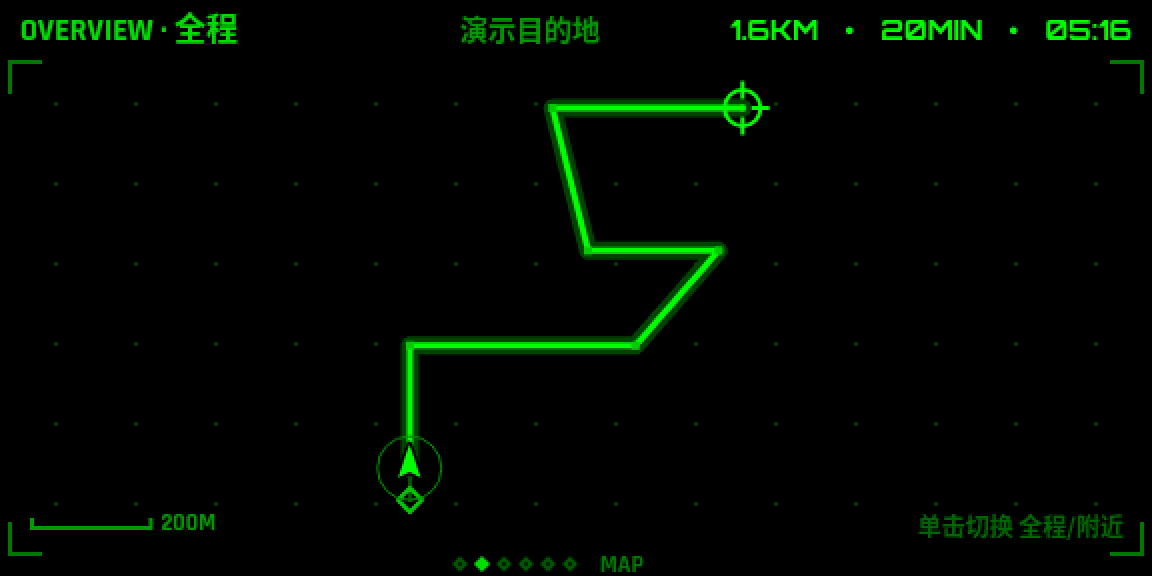
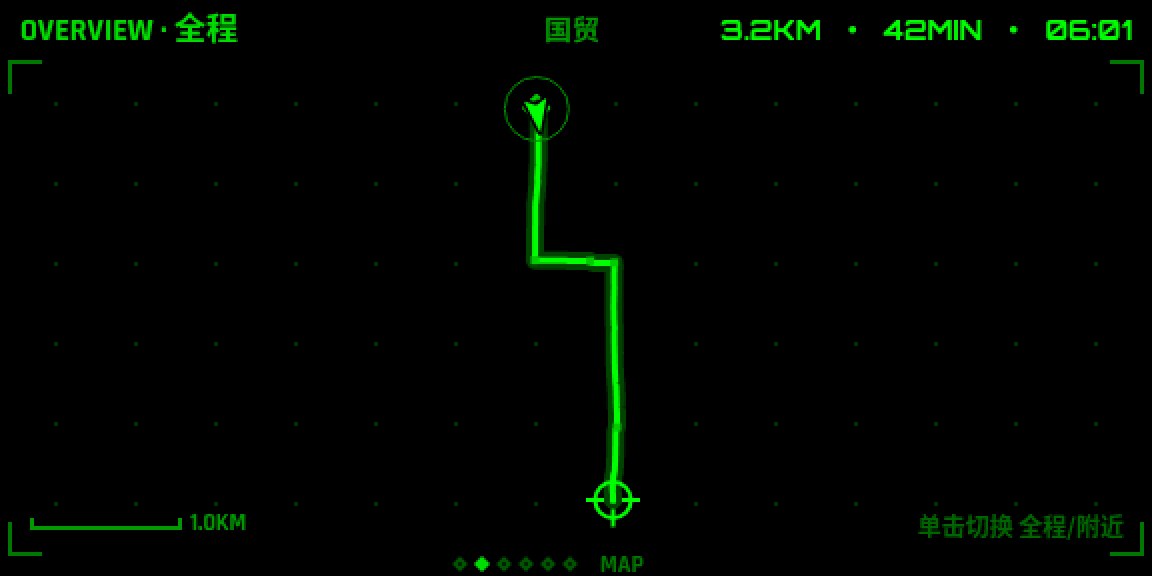
街道底图：开运算 + 去小连通块，去掉文字与图标描边噪点（真实静态图验证）；上架截图换成真实数据

diff --git a/src/hud/basemap.ts b/src/hud/basemap.ts
@@ -71,8 +71,10 @@ export class BasemapManager {
 
 /**
  * 高德静态图是浅色底、白色/黄色道路。这里提取「道路」像素：
- * 高亮且低饱和（普通路）或暖黄色（主干道）→ 映射为暗灰阶；
- * 其余（地块、文字、水系）为黑。若提取比例异常则回退到 Sobel 边缘线框。
+ * 高亮且低饱和（普通路）或暖黄色（主干道）→ 映射为暗灰阶；其余（地块、文字、水系）为黑。
+ * 文字标注和 POI 图标外圈也是白色描边，用 3×3 开运算去掉细描边，再去掉小于 60 像素的孤立块。
+ * （用真实静态图验证：17 级下道路 6–10px 宽，开运算后完整保留。）
+ * 若提取比例异常则回退到 Sobel 边缘线框。
  */
 function process(bmp: ImageBitmap): HTMLCanvasElement {
   const c = createCanvas(bmp.width, bmp.height)
@@ -80,33 +82,84 @@ function process(bmp: ImageBitmap): HTMLCanvasElement {
   ctx.drawImage(bmp, 0, 0)
   const img = ctx.getImageData(0, 0, c.width, c.height)
   const px = img.data
-  const n = c.width * c.height
-  const out = new Uint8ClampedArray(n)
-  let roadCount = 0
+  const w = c.width
+  const h = c.height
+  const n = w * h
+  const white = new Uint8Array(n)
+  const major = new Uint8Array(n)
   for (let i = 0; i < n; i++) {
     const r = px[i * 4]
     const g = px[i * 4 + 1]
     const b = px[i * 4 + 2]
     const max = Math.max(r, g, b)
     const min = Math.min(r, g, b)
-    const isWhite = min >= 250 && max - min < 8
-    const isMajor = r > 235 && g > 180 && b < 175 && r - b > 60
-    if (isMajor) {
-      out[i] = 7 * 17
-      roadCount++
-    } else if (isWhite) {
-      out[i] = 5 * 17
-      roadCount++
-    }
+    if (r > 235 && g > 180 && b < 175 && r - b > 60) major[i] = 1
+    else if (min >= 250 && max - min < 8) white[i] = 1
+  }
+  const roadsW = removeSmall(open3(white, w, h), w, h, 60)
+  const roadsM = open3(major, w, h)
+  const out = new Uint8ClampedArray(n)
+  let roadCount = 0
+  for (let i = 0; i < n; i++) {
+    if (roadsM[i]) { out[i] = 7 * 17; roadCount++ }
+    else if (roadsW[i]) { out[i] = 5 * 17; roadCount++ }
   }
   const ratio = roadCount / n
-  if (ratio < 0.02 || ratio > 0.6) sobel(px, out, c.width, c.height)
+  if (ratio < 0.02 || ratio > 0.6) sobel(px, out, w, h)
   for (let i = 0; i < n; i++) {
     px[i * 4] = px[i * 4 + 1] = px[i * 4 + 2] = out[i]
     px[i * 4 + 3] = 255
   }
   ctx.putImageData(img, 0, 0)
   return c
+}
+
+/** 3×3 开运算（先腐蚀后膨胀），去掉 1–2 像素宽的细线 */
+function open3(m: Uint8Array, w: number, h: number): Uint8Array {
+  const er = new Uint8Array(m.length)
+  for (let y = 1; y < h - 1; y++) {
+    for (let x = 1; x < w - 1; x++) {
+      const i = y * w + x
+      er[i] = m[i - w - 1] & m[i - w] & m[i - w + 1] & m[i - 1] & m[i] & m[i + 1] & m[i + w - 1] & m[i + w] & m[i + w + 1]
+    }
+  }
+  const di = new Uint8Array(m.length)
+  for (let y = 1; y < h - 1; y++) {
+    for (let x = 1; x < w - 1; x++) {
+      const i = y * w + x
+      di[i] = er[i - w - 1] | er[i - w] | er[i - w + 1] | er[i - 1] | er[i] | er[i + 1] | er[i + w - 1] | er[i + w] | er[i + w + 1]
+    }
+  }
+  return di
+}
+
+/** 去掉面积小于 minArea 的连通块（POI 小图标等） */
+function removeSmall(m: Uint8Array, w: number, h: number, minArea: number): Uint8Array {
+  const out = new Uint8Array(m.length)
+  const seen = new Uint8Array(m.length)
+  const stack: number[] = []
+  const comp: number[] = []
+  for (let s = 0; s < m.length; s++) {
+    if (!m[s] || seen[s]) continue
+    stack.push(s)
+    seen[s] = 1
+    comp.length = 0
+    while (stack.length) {
+      const i = stack.pop()!
+      comp.push(i)
+      const x = i % w
+      const nb = [i - w, i + w, x > 0 ? i - 1 : -1, x < w - 1 ? i + 1 : -1]
+      for (const j of nb) {
+        if (j >= 0 && j < m.length && m[j] && !seen[j]) {
+          seen[j] = 1
+          stack.push(j)
+        }
+      }
+    }
+    if (comp.length >= minArea) for (const i of comp) out[i] = 1
+  }
+  void h
+  return out
 }
 
 function sobel(px: Uint8ClampedArray, out: Uint8ClampedArray, w: number, h: number): void {
